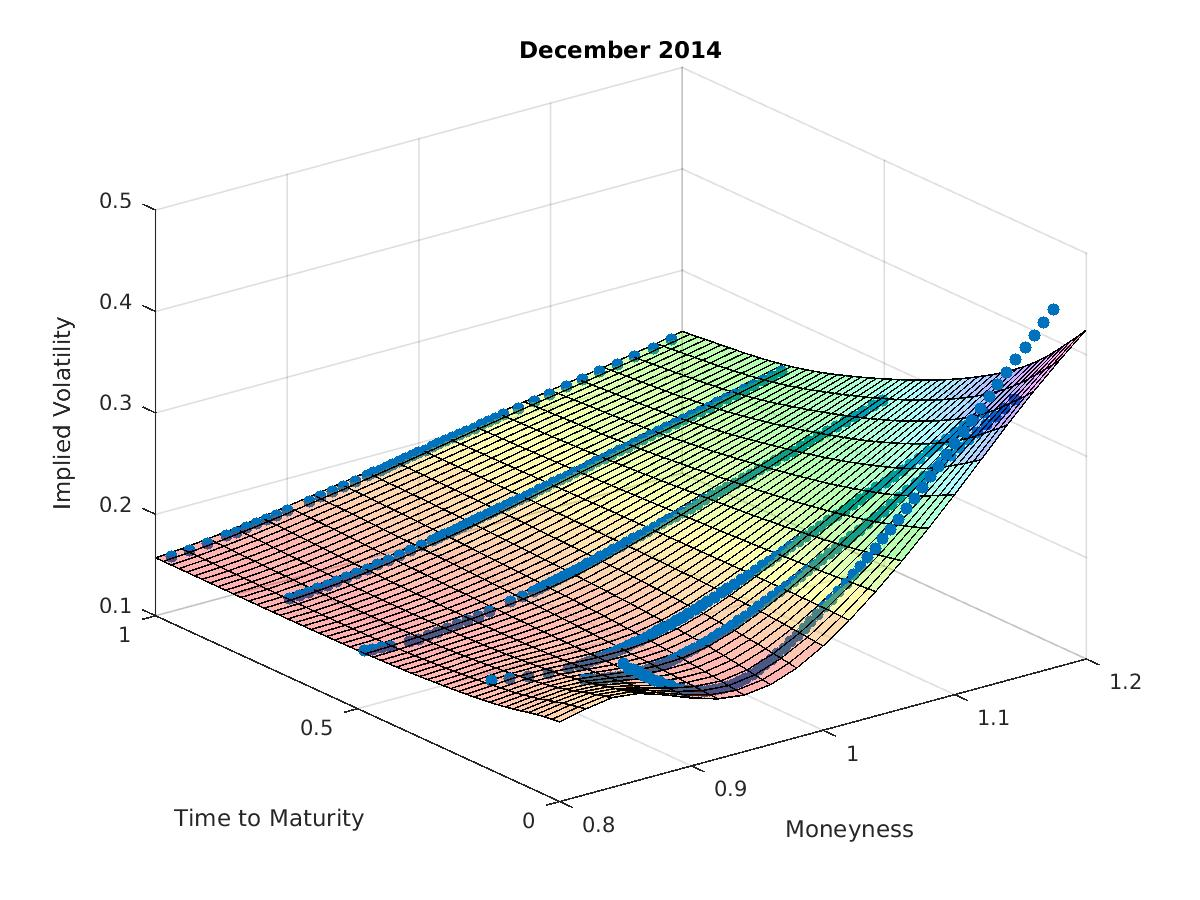
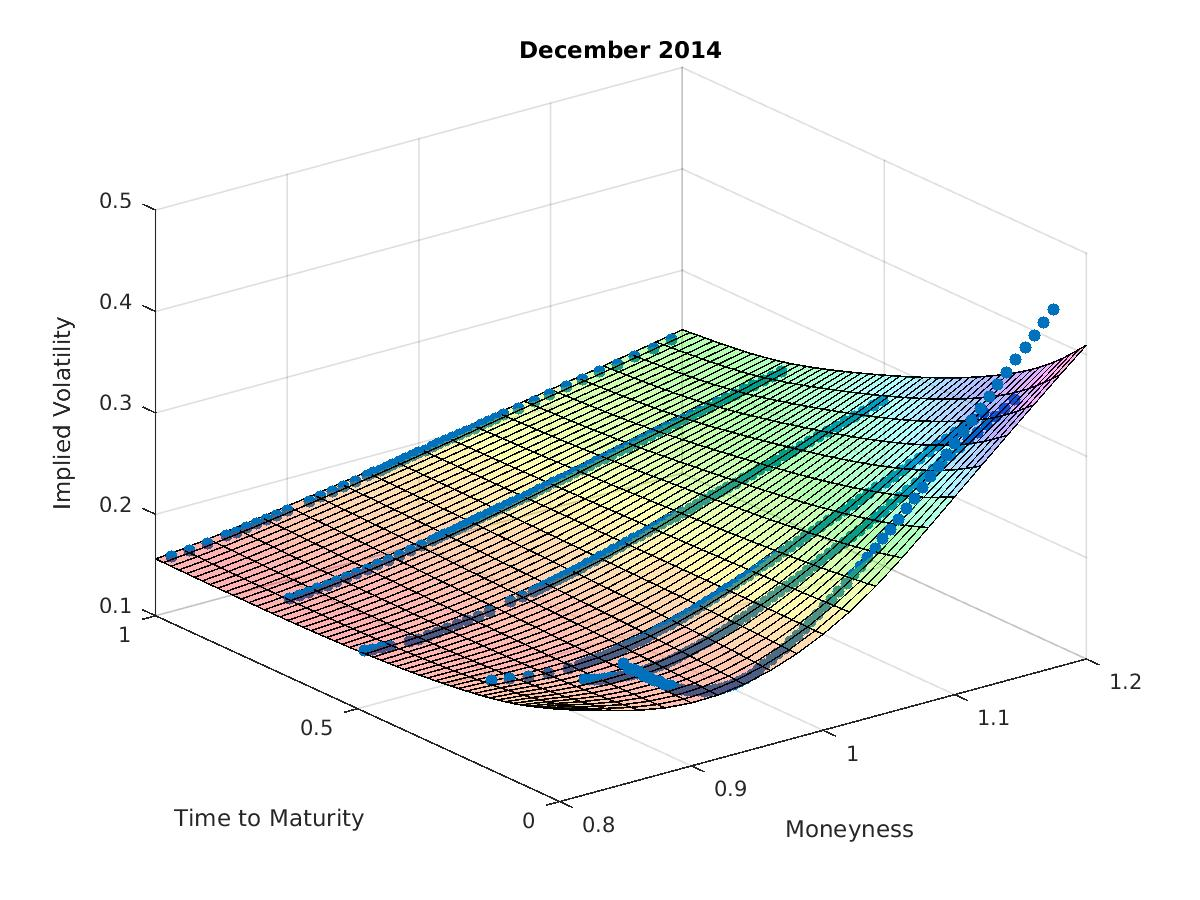
Changes to optimal bandwidth

Changed region(s): [[0.1233, 0.3733, 0.925, 0.8089]]

diff --git a/SFEVolSurfPlot.m b/SFEVolSurfPlot.m
@@ -85,7 +85,9 @@ while (j<gmat+1);
         Y=x(:,8);
 
         % optimal bandwidth rule of thumb for quartic kernel
-        h1=2.78*std(x(:,7))*v^(-1/6);
+        a=unique(x(:,7));
+        b=length(a);
+        h1=2.78*std(a)*b^(-1/6);
 
         c=unique(x(:,4));
         d=length(c);
